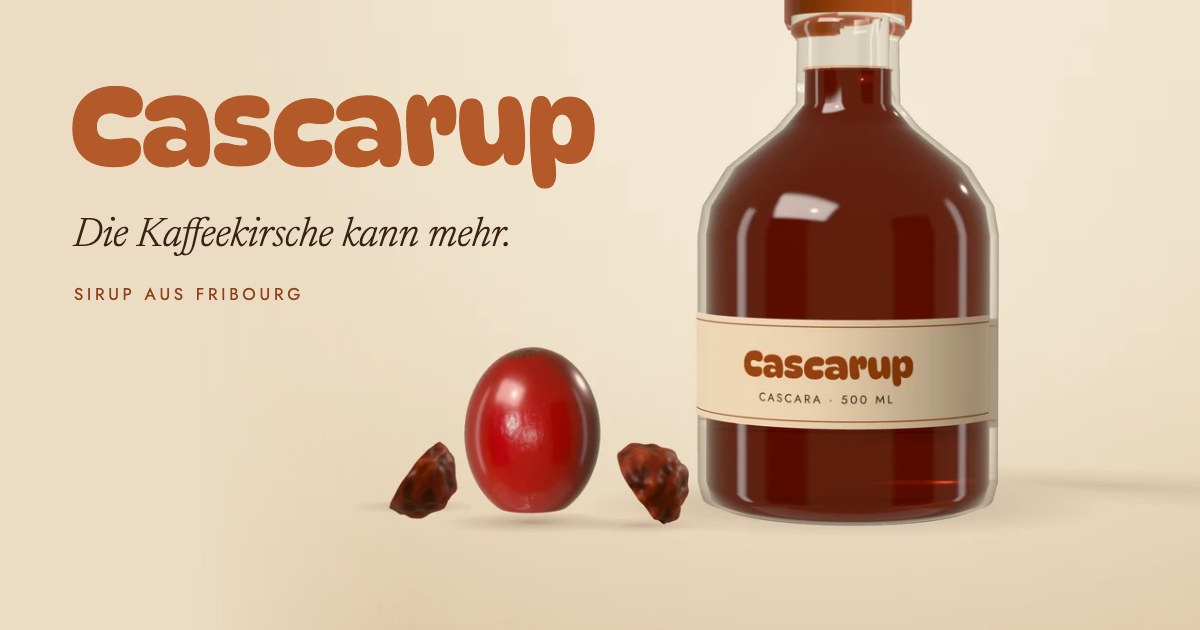
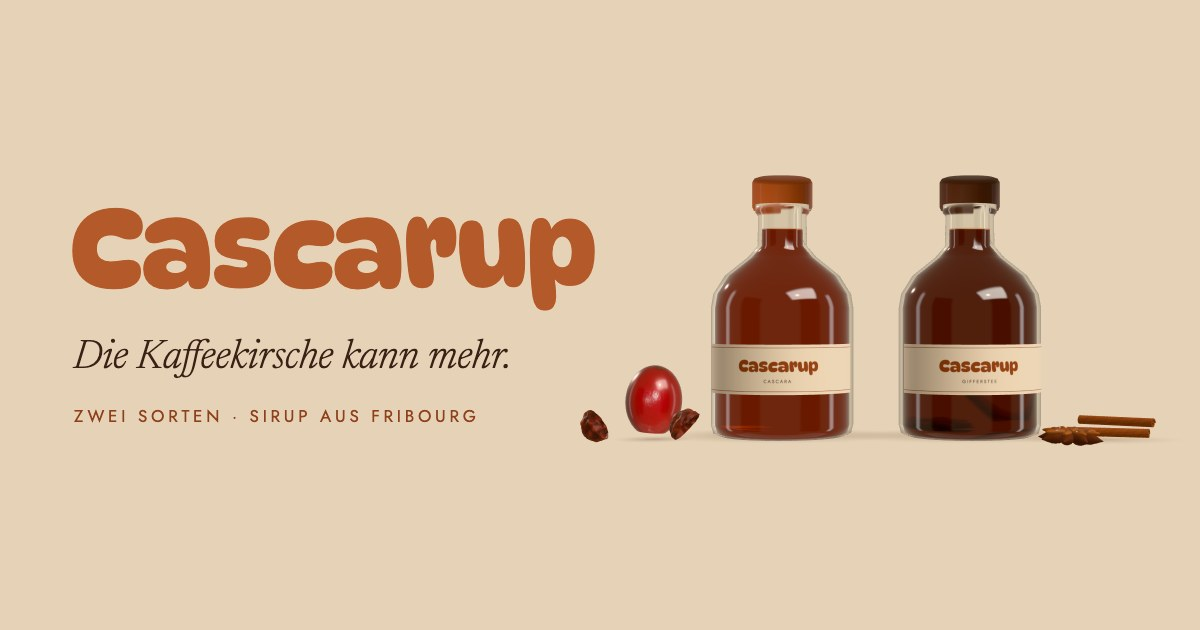
Vorschaubild: Schlussbild mit beiden Sorten

diff --git a/_build/og/og.html b/_build/og/og.html
@@ -3,11 +3,11 @@
 <link rel="stylesheet" href="/assets/fonts.css">
 <style>
   html, body { margin: 0; }
-  .og { position: relative; width: 1200px; height: 630px; overflow: hidden; background: #ebdcc3; font-family: Jost, sans-serif; }
-  .og img { position: absolute; left: 190px; top: -120px; width: 1130px; height: auto; -webkit-mask-image: linear-gradient(90deg, transparent 0, #000 220px); }
-  .og h1 { position: absolute; left: 70px; top: 74px; margin: 0; font: 600 112px/.92 DynaPuff, sans-serif; color: #B4592A; letter-spacing: -.012em; }
+  /* the opening's last scene (scene.png, made by the share-picture script) with the name over it */
+  .og { position: relative; width: 1200px; height: 630px; overflow: hidden; background: #E6D3B7 url(scene.png) center / cover; font-family: Jost, sans-serif; }
+  .og h1 { position: absolute; left: 70px; top: 196px; margin: 0; font: 600 112px/.92 DynaPuff, sans-serif; color: #B4592A; letter-spacing: -.012em; }
   .og p { position: absolute; left: 74px; margin: 0; }
-  .og .claim { top: 214px; font: 300 italic 40px/1.15 Newsreader, serif; color: #3A2116; }
-  .og .where { top: 286px; font: 400 17px/1 Jost, sans-serif; letter-spacing: .22em; text-transform: uppercase; color: #8E401C; }
+  .og .claim { top: 336px; font: 300 italic 40px/1.15 Newsreader, serif; color: #3A2116; }
+  .og .where { top: 408px; font: 400 17px/1 Jost, sans-serif; letter-spacing: .22em; text-transform: uppercase; color: #8E401C; }
 </style></head>
-<body><div class="og"><img src="/assets/shop/cascara-500.webp" alt=""><h1>Cascarup</h1><p class="claim">Die Kaffeekirsche kann mehr.</p><p class="where">Sirup aus Fribourg</p></div></body></html>
+<body><div class="og"><h1>Cascarup</h1><p class="claim">Die Kaffeekirsche kann mehr.</p><p class="where">Zwei Sorten · Sirup aus Fribourg</p></div></body></html>
